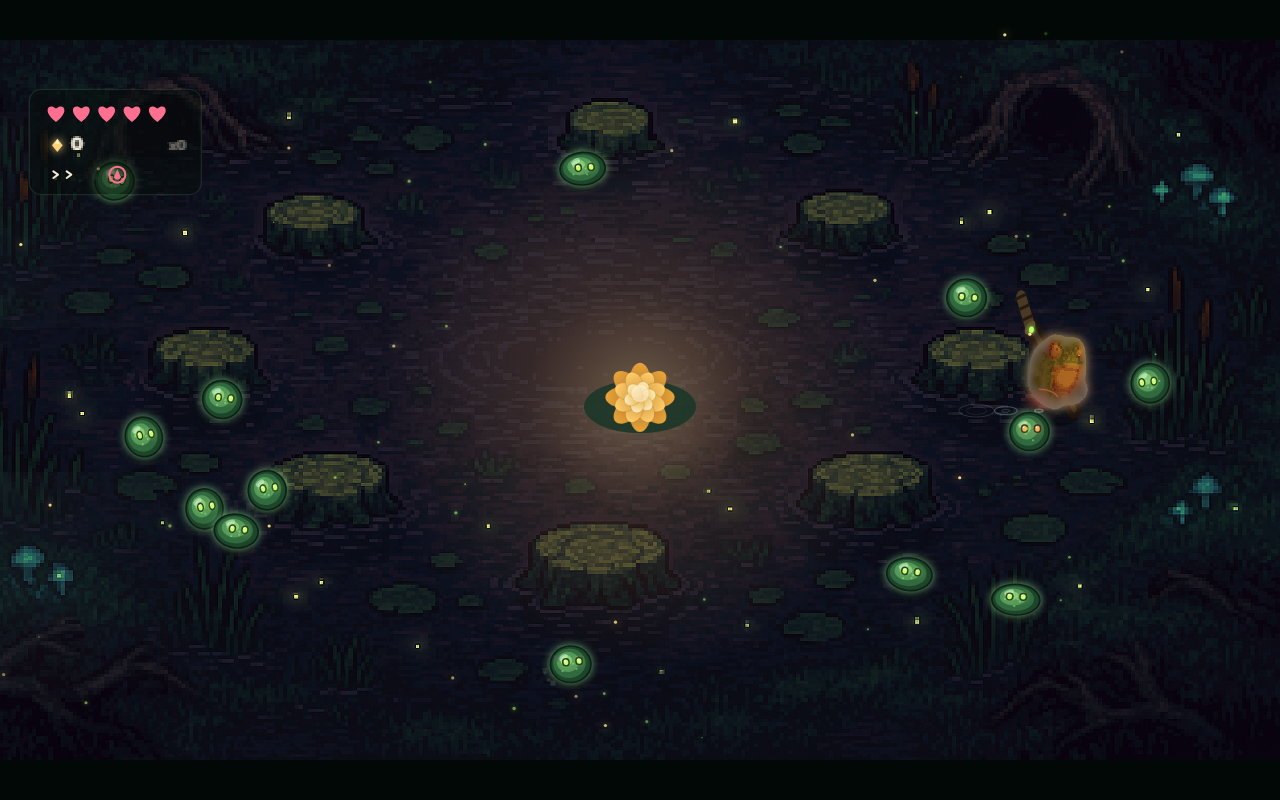
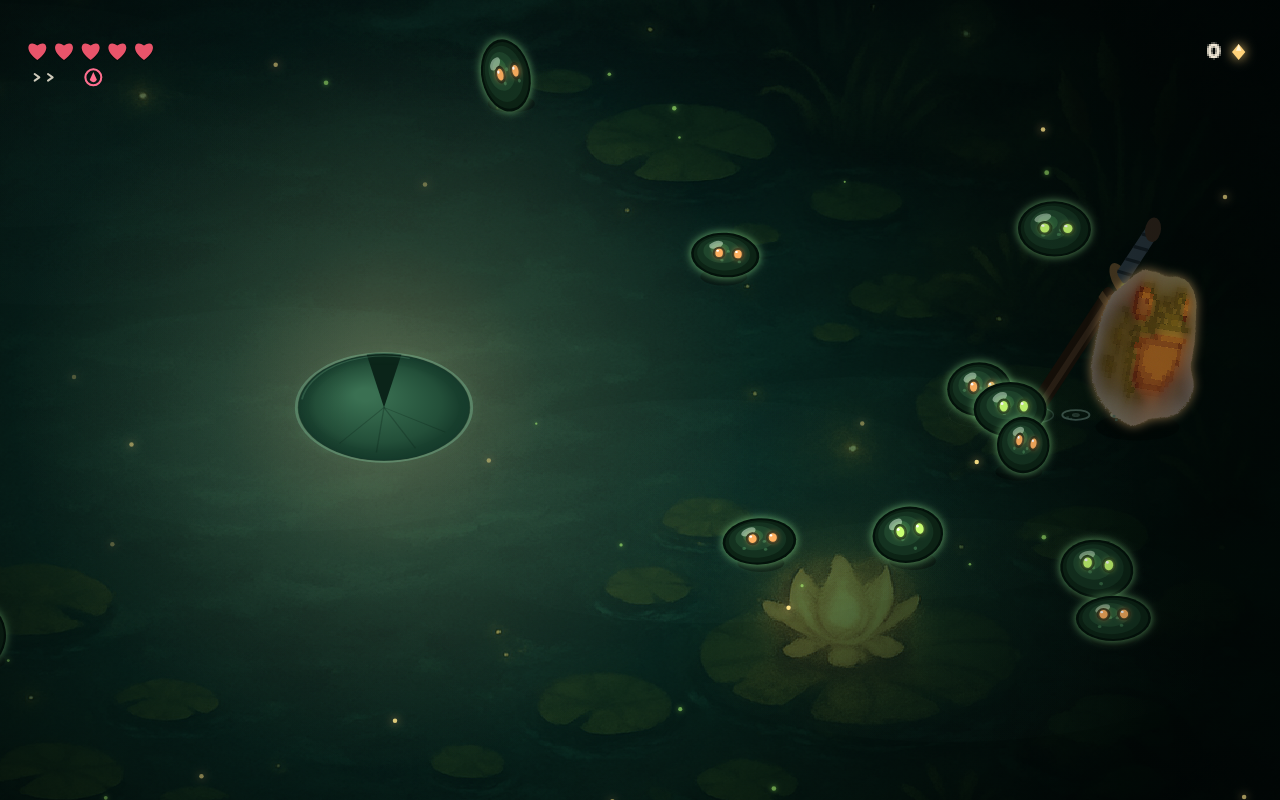
render: revert backdrop pixelation to smooth (blind panel: MARGINAL, 2/3 prefer smooth)
The px-density candidate round (3 blind judges on docs/qa/pix-compare.png) returned
no clearly-superior density; 2/3 preferred the smooth original because down-res-ing a
soft painterly backdrop just adds a rival pixel scale fighting the hero. Real clash is
soft-painterly-vs-hard-pixel STYLE, not grain — needs a backdrop repaint decision, not a
knob. Default BACKDROP_PIXEL=1 (smooth); QA probe (scripts/pixcompare.mjs) + __bpx kept.

diff --git a/src/render/render.ts b/src/render/render.ts
@@ -99,11 +99,21 @@ function buildBackdrop(): HTMLCanvasElement {
 // game" (blind Reference + Commercial judges). Down-res the backdrop to a pixel grid ONCE; the
 // render's nearest-neighbor upscale then gives it the same chunky grain as the frog/enemies.
 let pixBackdrop: HTMLCanvasElement | null = null;
-const BACKDROP_PIXEL = 3;   // ARENA / this = internal pixel resolution (higher = chunkier)
+let pixBackdropF = -1;
+// A blind 3-judge candidate round (px=1/2/3/4/6, docs/qa/pix-compare.png) found NO clearly-superior
+// density — all MARGINAL, and 2/3 preferred the SMOOTH original (px=1): down-res-ing a soft painterly
+// backdrop just adds a rival pixel scale that fights the hero instead of unifying with it. The real
+// clash is render-STYLE (soft-painterly backdrop vs hard-pixel sprites), not grain size — only a true
+// pixel-art repaint of the backdrop resolves it (a call on the signed painterly-pixel hybrid). So this
+// defaults to 1 (smooth); __bpx keeps the QA knob live for that future decision.
+const BACKDROP_PIXEL = 1;
 function getPixBackdrop(bd: HTMLImageElement): HTMLCanvasElement {
-  if (pixBackdrop) return pixBackdrop;
+  // __bpx is a QA override so the candidate-compare probe can sweep densities live (1 = smooth original)
+  const f = Math.max(1, (window as any).__bpx ?? BACKDROP_PIXEL);
+  if (pixBackdrop && pixBackdropF === f) return pixBackdrop;
+  pixBackdropF = f;
   const c = document.createElement('canvas');
-  c.width = Math.round(ARENA_W / BACKDROP_PIXEL); c.height = Math.round(ARENA_H / BACKDROP_PIXEL);
+  c.width = Math.round(ARENA_W / f); c.height = Math.round(ARENA_H / f);
   const g = c.getContext('2d')!;
   g.imageSmoothingEnabled = true;    // smooth downscale -> clean solid pixel blocks
   g.drawImage(bd, 0, 0, c.width, c.height);
